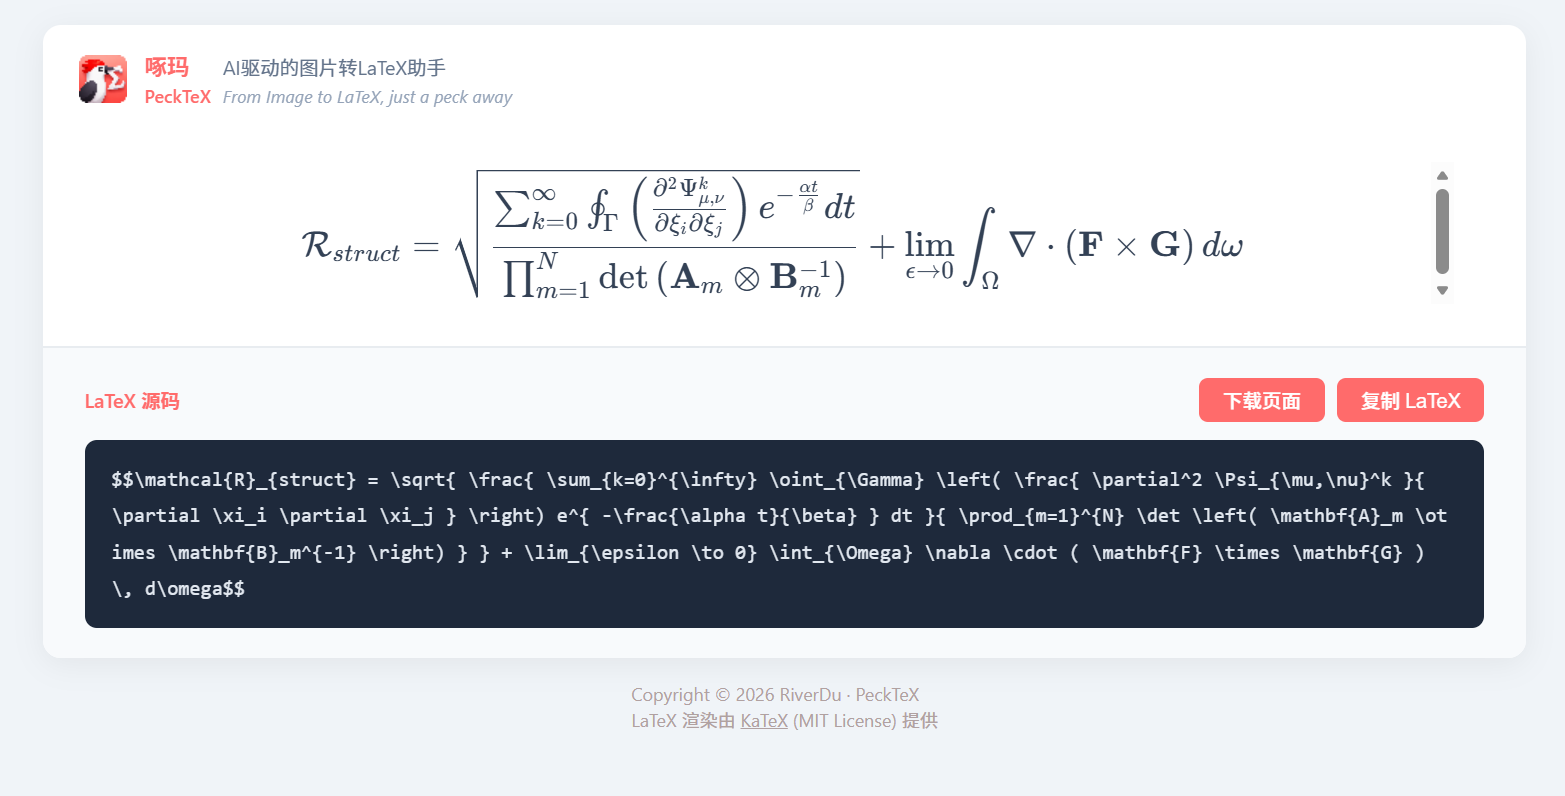
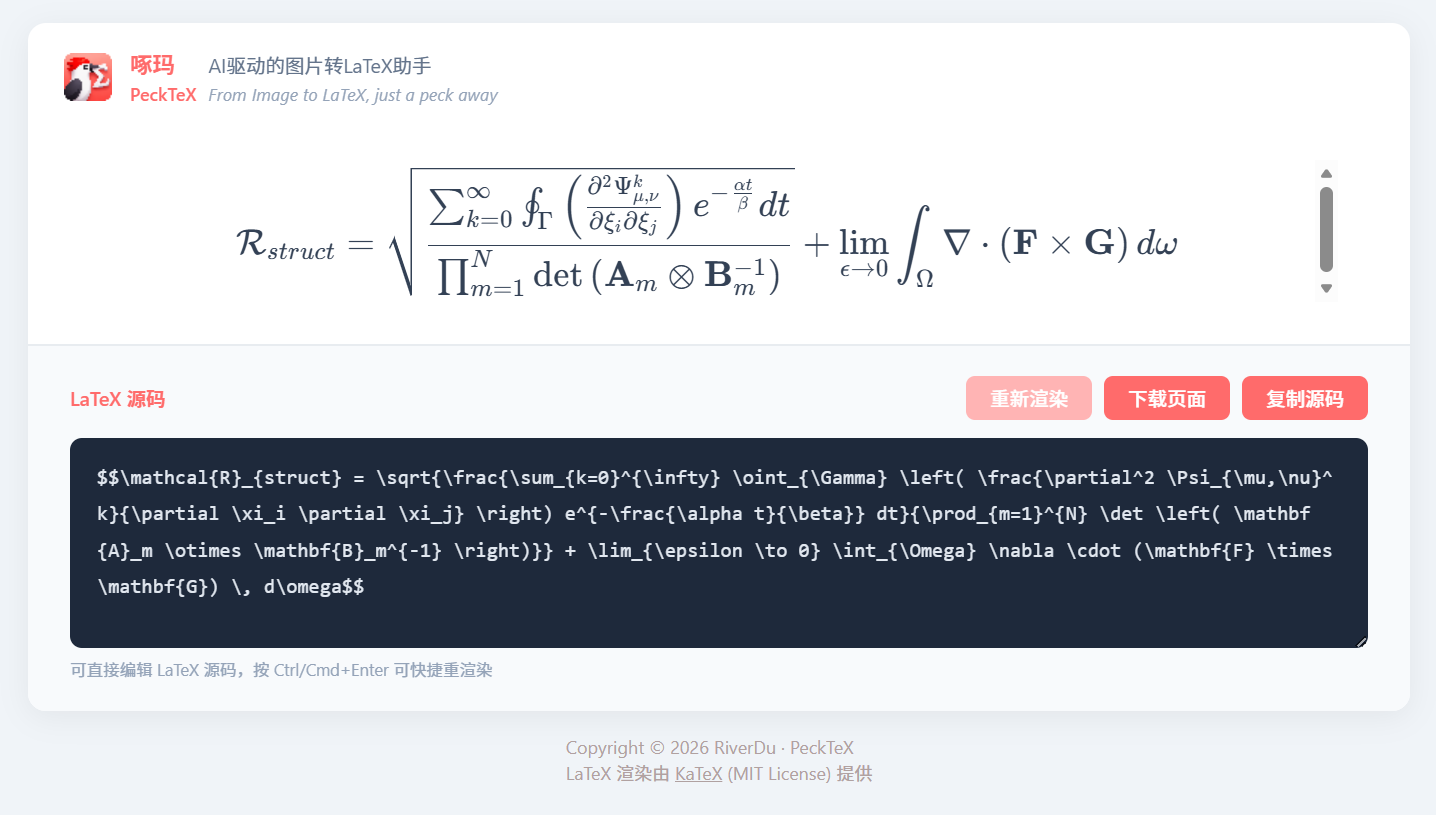
更新版本号至 v1.2，修改相关文档

diff --git a/main.py b/main.py
@@ -39,7 +39,7 @@ def main():
     icon_path = os.path.join(str(ICONS_DIR), "app_64.ico")
     if os.path.exists(icon_path):
         app.setWindowIcon(QIcon(icon_path))
-    window = PeckTeXMainWindow("啄玛 PeckTeX -- AI驱动的图片转LaTeX助手 v1.0")
+    window = PeckTeXMainWindow("啄玛 PeckTeX -- AI驱动的图片转LaTeX助手 v1.2")
     window.show()
     sys.exit(app.exec())
 

diff --git a/README.en.md b/README.en.md
@@ -4,7 +4,7 @@
    <img src="docs/about/app.png" alt="PeckTeX Logo" width="128"/>
    <h3>AI-Driven Image to LaTeX Desktop Tool</h3>
 
-   [![Version](https://img.shields.io/badge/Version-v1.0-orange.svg)](https://github.com/River-Du/PeckTeX/releases)
+   [![Version](https://img.shields.io/badge/Version-v1.2-orange.svg)](https://github.com/River-Du/PeckTeX/releases)
    [![AI Assisted](https://img.shields.io/badge/AI_Assisted-Development-blueviolet.svg)](#)
    [![Python >= 3.10](https://img.shields.io/badge/Python->=3.10-blue.svg)](https://www.python.org/)
    [![PySide6](https://img.shields.io/badge/PySide6-GUI-green.svg)](https://wiki.qt.io/Qt_for_Python)
@@ -12,7 +12,6 @@
 
 
    **English** | [简体中文](./README.md)
-
 
 </div>
 
@@ -45,7 +44,7 @@ The GUI adopts a left-right split layout: the left side contains configuration a
 
 **LaTeX Preview Screenshot:**
 
-LaTeX previews are displayed in the local system browser.
+LaTeX previews are displayed in the local system browser. You can edit and re-render the output.
 
 ![KaTeX Render Preview](docs/about/render.png)
 

diff --git a/README.md b/README.md
@@ -4,7 +4,7 @@
    <img src="docs/about/app.png" alt="PeckTeX Logo" width="128"/>
    <h3>AI 驱动的图片转 LaTeX 桌面工具</h3>
 
-   [![Version](https://img.shields.io/badge/Version-v1.0-orange.svg)](https://github.com/River-Du/PeckTeX/releases)
+   [![Version](https://img.shields.io/badge/Version-v1.2-orange.svg)](https://github.com/River-Du/PeckTeX/releases)
    [![AI Assisted](https://img.shields.io/badge/AI_Assisted-Development-blueviolet.svg)](#)
    [![Python >= 3.10](https://img.shields.io/badge/Python->=3.10-blue.svg)](https://www.python.org/)
    [![PySide6](https://img.shields.io/badge/PySide6-GUI-green.svg)](https://wiki.qt.io/Qt_for_Python)
@@ -45,7 +45,7 @@
 
 **LaTeX 预览页面截图：**
 
-识别结果的 LaTeX 预览通过调用本地浏览器进行展示。
+识别结果的 LaTeX 预览通过调用本地浏览器进行展示。可进行编辑和重新渲染。
 
 ![KaTeX网页预览](docs/about/render.png)
 

diff --git a/AGENTS.md b/AGENTS.md
@@ -13,7 +13,7 @@
 **啄玛 (PeckTeX)** 是一款基于 Python 与 PySide6 开发的轻量级桌面应用。
 软件通过调用视觉语言大模型（VLM）API，提取图片中包含的数学公式、化学方程式、手写推导过程以及表格图表等内容，识别并转换为 LaTeX 等标记语言代码。
 核心流程：截图/粘贴/文件导入 -> VLM API 识别 -> 结果流式输出 -> HTML/KaTeX 预览。功能涵盖自动化识别、连续识别、多轮 AI 对话修正及完善的记录管理。
-版本 v1.0，作者 RiverDu，依赖：`PySide6>=6.5.3`、`openai>=1.30.1`、`httpx>=0.27.0`。
+版本 v1.2，作者 RiverDu，依赖：`PySide6>=6.5.3`、`openai>=1.30.1`、`httpx>=0.27.0`。
 
 ## 模块结构与依赖
 
